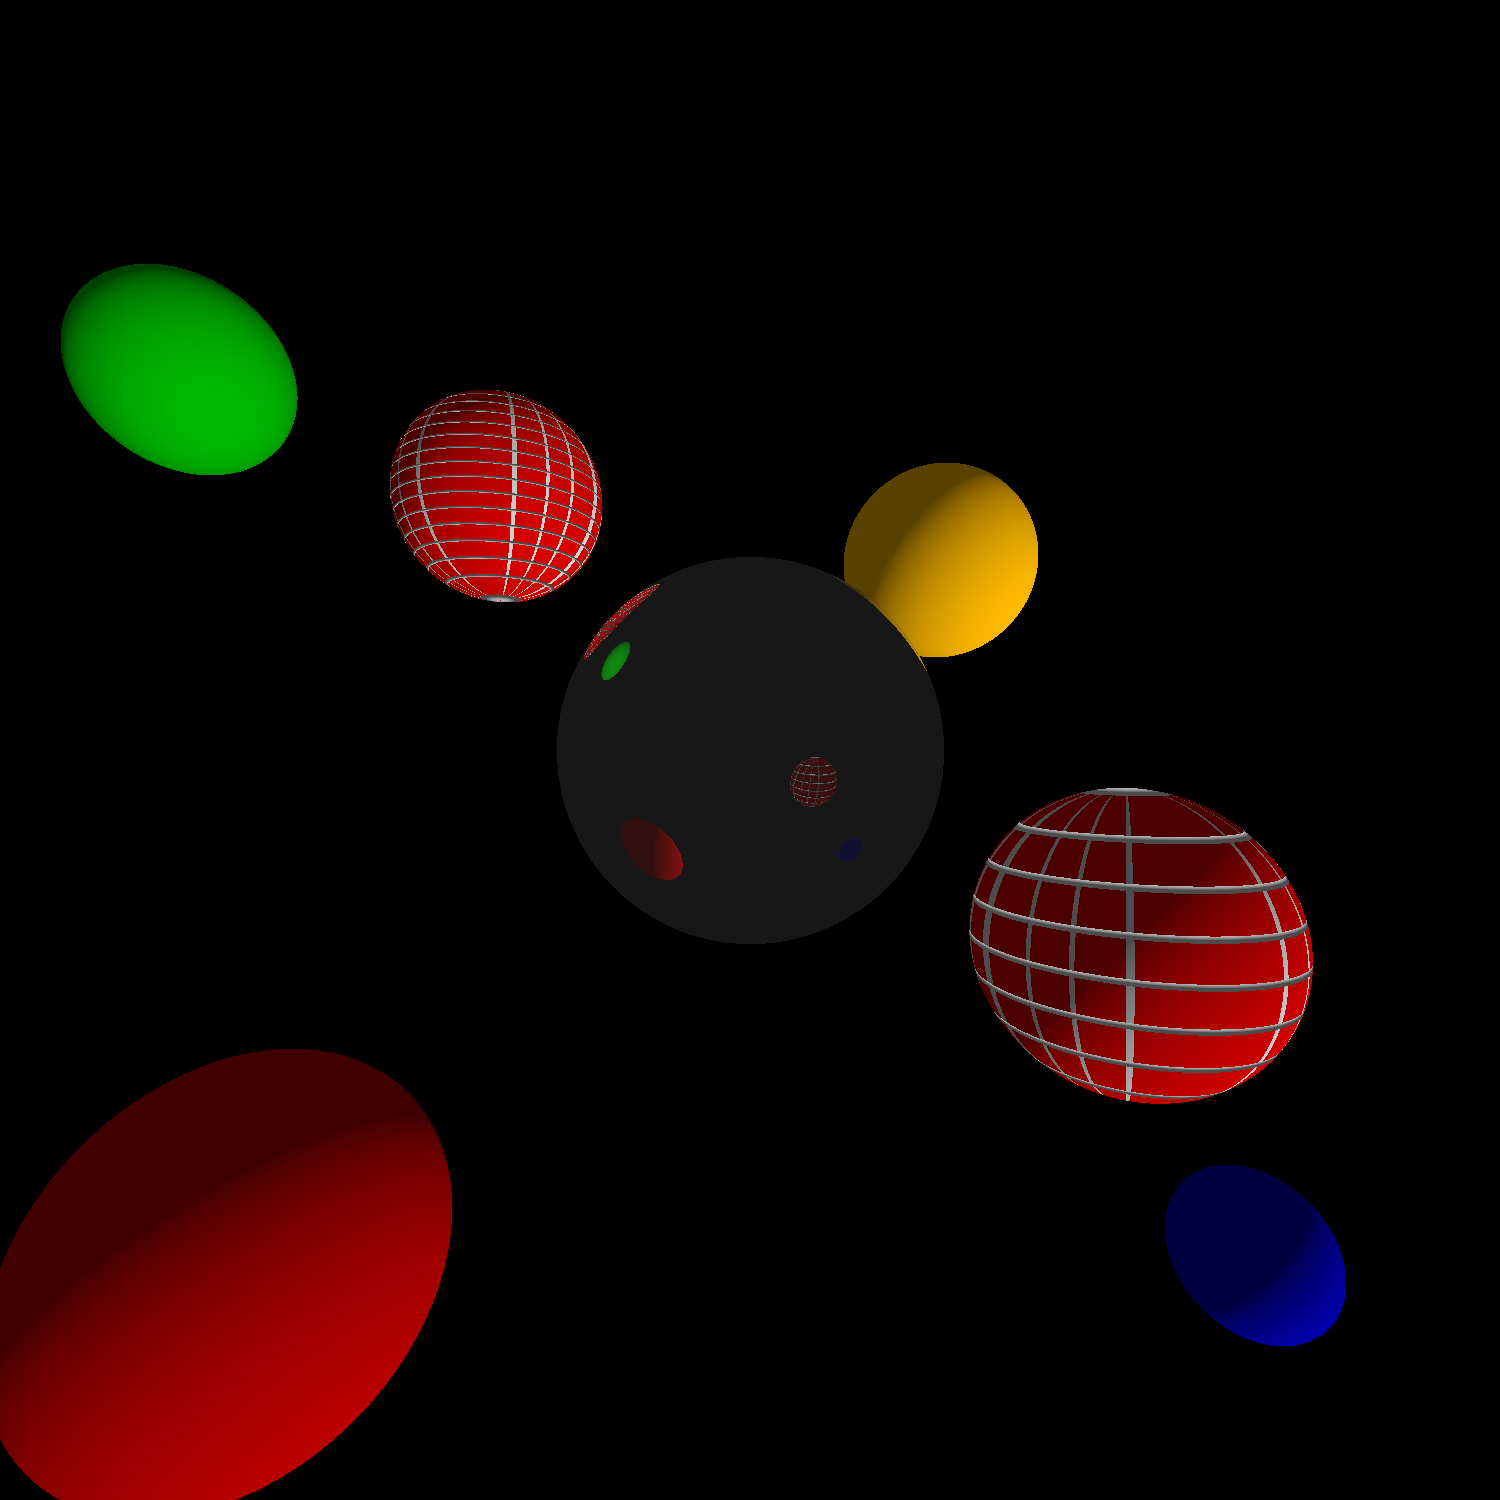
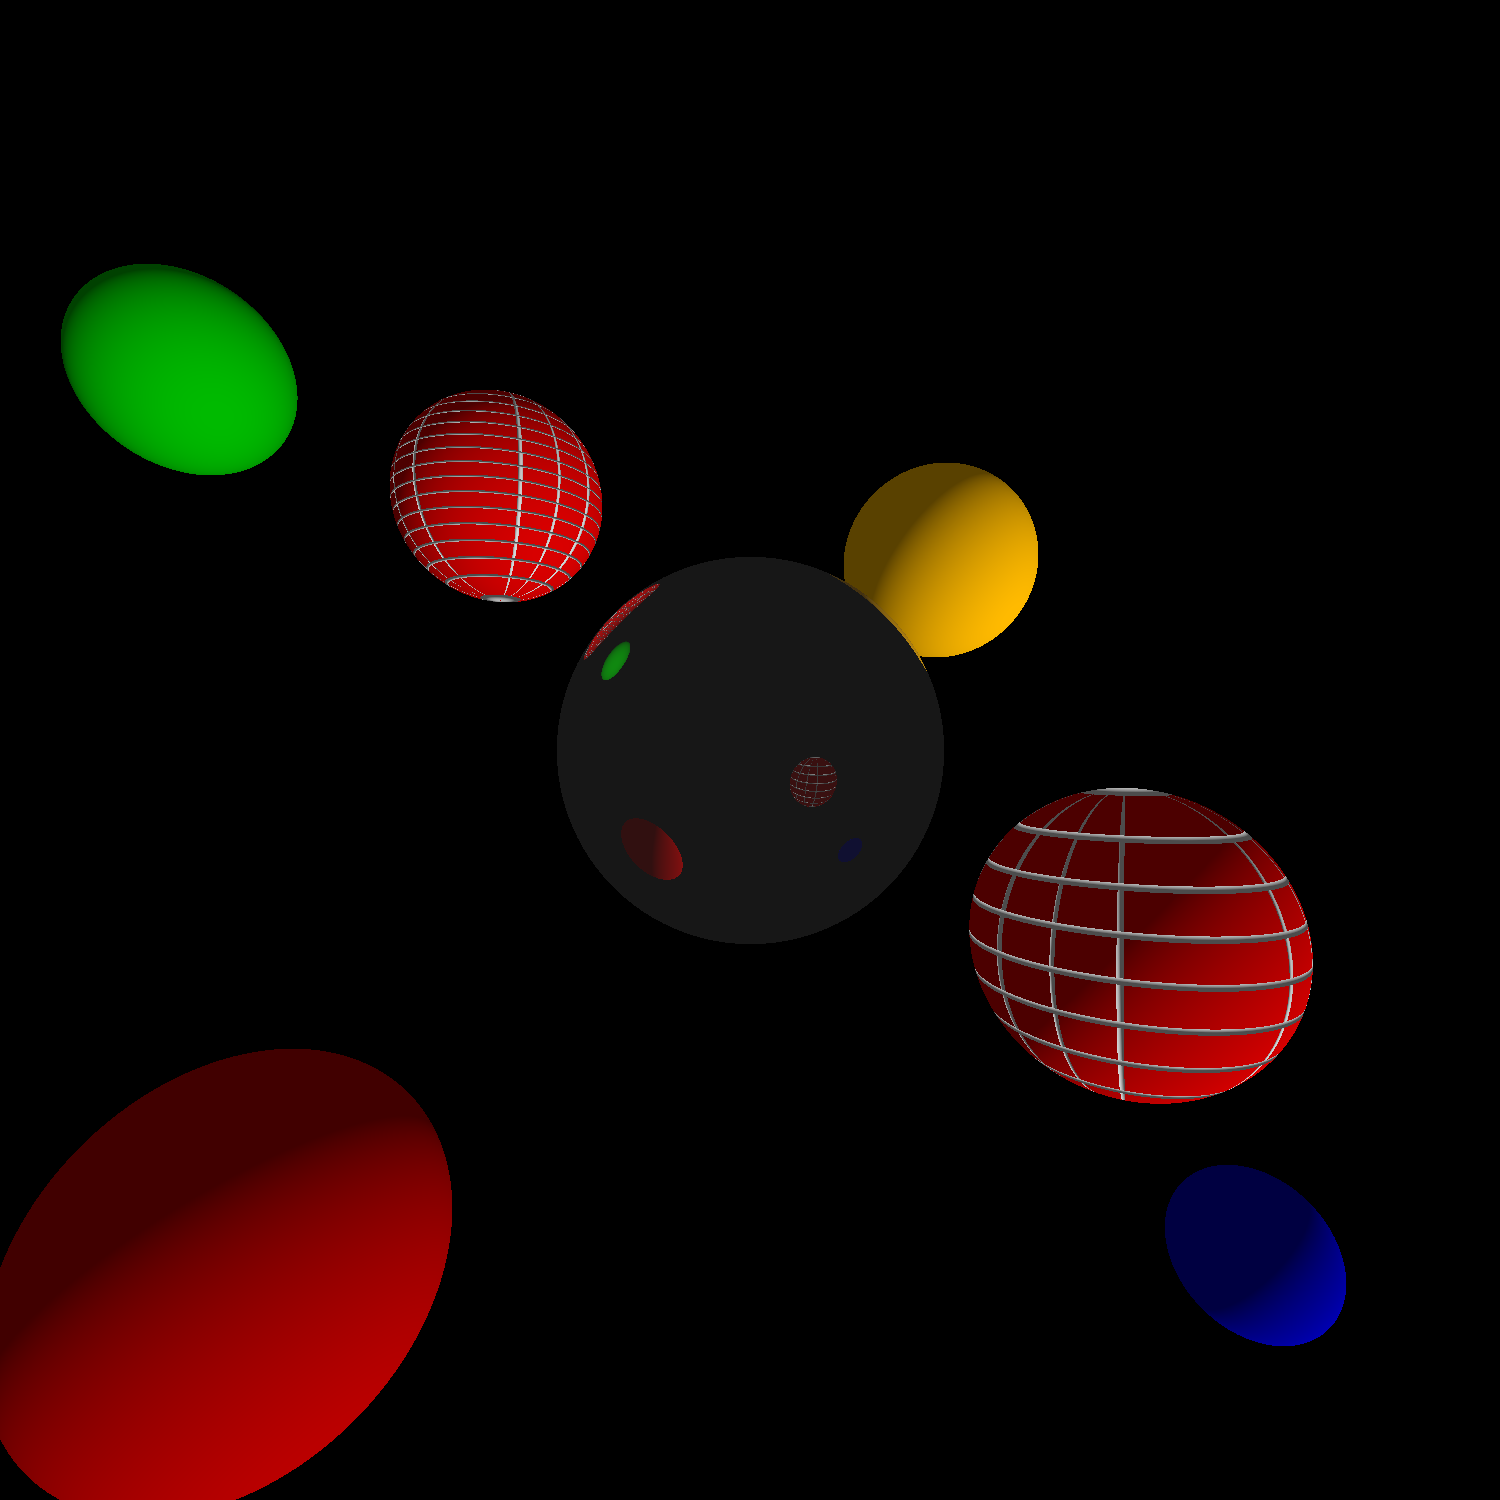
small tweaks to camera and bricks

diff --git a/src/cgg/a02/Camera.java b/src/cgg/a02/Camera.java
@@ -8,10 +8,11 @@ public class Camera
 {
 	private Vec3 position;
 	private double deg_fov;
-	private double rad_fov;
+	private double rad_thfov;
 	private double width;
 	private double hwidth;
 	private double height;
+	private double hheight;
 	private final double near = 0;
 	private final double far = 1000;
 
@@ -19,15 +20,16 @@ public class Camera
 	{
 		this.position = position;
 		this.deg_fov = fov;
-		this.rad_fov = toRadians(fov);
+		this.rad_thfov = tan(toRadians(fov)*.5);
 		this.width = width;
 		this.hwidth = width*.5;
 		this.height = height;
+		this.hheight = height*.5;
 	}
 
 	public Ray generateRay(Vec2 coord)
 	{
-		Vec3 ray_direction = normalize(vec3(coord.x()-hwidth,coord.y()-height*.5,-hwidth/tan(rad_fov*.5)));
+		Vec3 ray_direction = normalize(vec3(coord.x()-hwidth,coord.y()-hheight,-hwidth/rad_thfov));
 		return new Ray(position,ray_direction,near,far);
 	}
 

diff --git a/src/cgg/a02/RayTracer.java b/src/cgg/a02/RayTracer.java
@@ -94,13 +94,13 @@ public class RayTracer implements Sampler
 
 		// vertical
 		Vec3 normal2D = vec3(hit.normal().x(),0,hit.normal().z());
-		double v_bricks = abs(toDegrees(cos(dot(normal2D,vec3(0,0,1))/length(normal2D))))%7;
+		double v_bricks = abs(toDegrees(cos(dot(normal2D,vec3(0,0,1))/length(normal2D))))%9;
 		boolean v_koof = v_bricks<.8;
 
 		// calculate colour & normals
 		Color __Colour = (h_koof||v_koof) ? color(.7,.7,.7) : hit.colour();
 		if (h_koof) hit.overwriteNormal(interplolate(vec3(0,1,0),vec3(0,-1,0),h_bricks/.015));
-		else if (h_koof) hit.overwriteNormal(multiplyPoint(rotate(vec3(0,1,0),(v_bricks-.4)/.4),hit.normal()));
+		else if (v_koof) hit.overwriteNormal(multiplyPoint(rotate(vec3(0,1,0),(v_bricks-.4)/.4*70),hit.normal()));
 		hit.overwriteColour((h_koof||v_koof) ? color(.7,.7,.7) : hit.colour());
 		return shade(hit);
 	}
